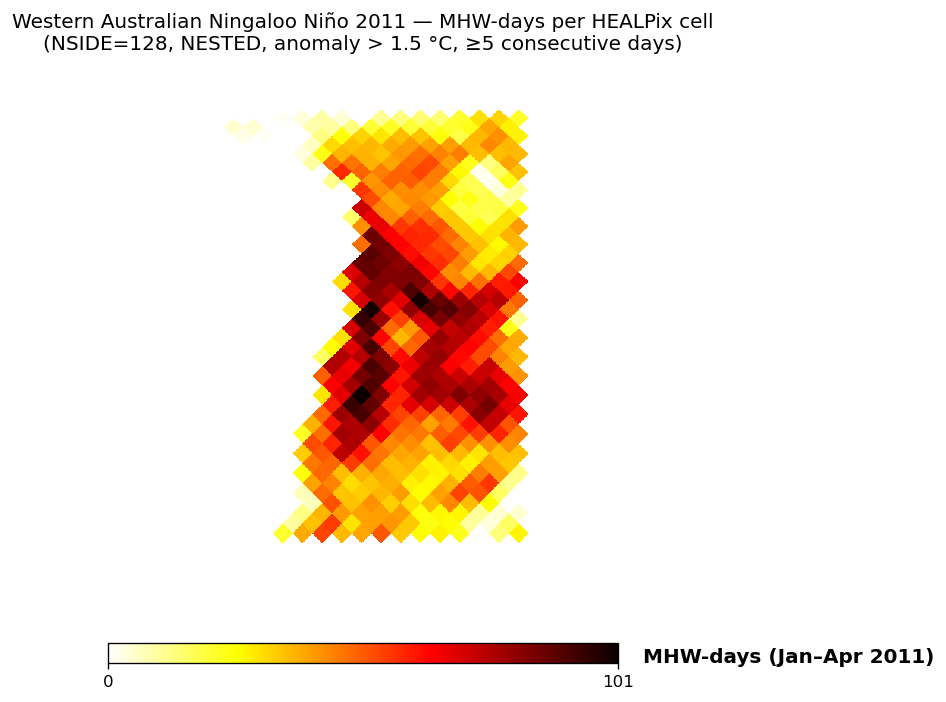
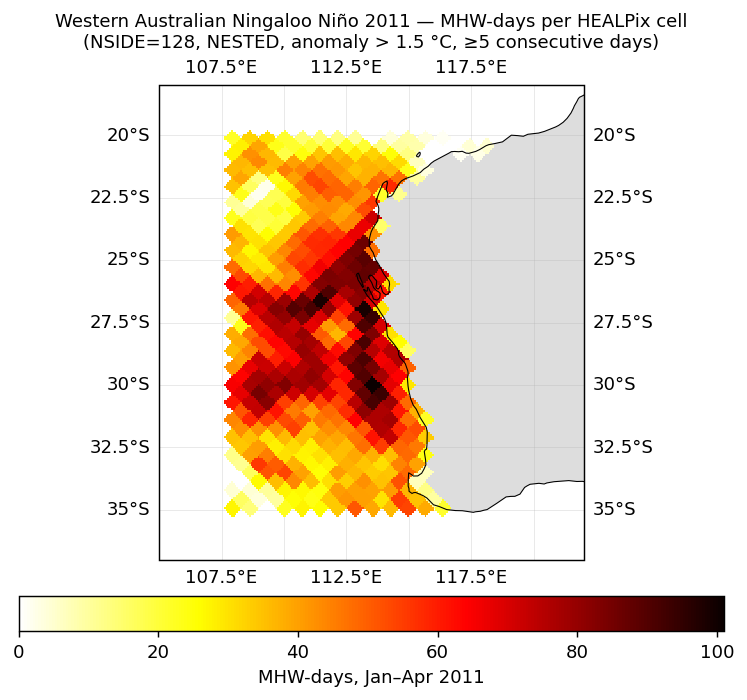
fix: notebook 04 sklearn dep + notebook 05 first figure coastlines
The CI run for "ci: execute all notebooks" succeeded as a workflow but
notebook 04 silently failed at the sklearn import:
    ModuleNotFoundError: No module named 'sklearn'
The local pangeo dev env has scikit-learn so the failure was invisible
locally. Add scikit-learn to environment.yml so notebooks 04 and 06
(both use sklearn.linear_model.LogisticRegression) execute under CI.

Notebook 05 figure 1 ("MHW-days per HEALPix cell") used hp.cartview,
which renders a plain HEALPix raster with no map context. Replace with
cartopy PlateCarree + pcolormesh so coastlines, the Australian land
mass, and lat/lon gridlines are drawn. Use ang2pix on a high-resolution
lat-lon mesh to keep the per-cell HEALPix block structure visible.

Re-running locally produces the corrected figure; CI build for
notebook 04 will pick up its outputs on the next run.

diff --git a/notebooks/05_real_mhw_and_biodiversity.py b/notebooks/05_real_mhw_and_biodiversity.py
@@ -243,21 +243,38 @@ print(f"HEALPix cells with MHW exposure (≥1 day mean): "
 # ## 5. Visualise the MHW footprint on HEALPix
 
 # %%
-m_for_plot = np.where(np.isnan(mhw_days_hp), 0.0, mhw_days_hp)
-hp.cartview(
-    m_for_plot,
-    nest=True,
-    lonra=[105, 122],
-    latra=[-37, -18],
-    title=f"Western Australian Ningaloo Niño 2011 — MHW-days per HEALPix cell\n(NSIDE={NSIDE}, NESTED, anomaly > {ANOMALY_THRESHOLD_C} °C, ≥{MIN_PERSISTENCE_DAYS} consecutive days)",
-    cmap="hot_r",
-    min=0, max=float(np.nanmax(mhw_days_hp)),
-    unit="MHW-days (Jan–Apr 2011)",
-    cbar=True,
-)
-plt.gcf().set_size_inches(10, 6)
-plt.savefig(IMG_DIR / "mhw_healpix_western_australia_2011.png",
-            dpi=120, bbox_inches="tight")
+import cartopy.crs as ccrs
+import cartopy.feature as cfeature
+
+# Render the HEALPix-aggregated MHW field on a high-resolution lat-lon
+# grid through `hp.ang2pix`, then pcolormesh it on a cartopy axis so
+# coastlines and gridlines come through.
+LATS_HD = np.linspace(-37, -18, 240)
+LONS_HD = np.linspace(105, 122, 240)
+LAT_HD, LON_HD = np.meshgrid(LATS_HD, LONS_HD, indexing="ij")
+theta_hd = np.deg2rad(90.0 - LAT_HD)
+phi_hd = np.deg2rad(LON_HD % 360.0)
+hp_idx_hd = hp.ang2pix(NSIDE, theta_hd, phi_hd, nest=True)
+mhw_field_hd = mhw_days_hp[hp_idx_hd]
+mhw_field_hd = np.where(np.isnan(mhw_field_hd) | (mhw_field_hd == 0), np.nan, mhw_field_hd)
+
+fig = plt.figure(figsize=(10, 6))
+ax = fig.add_subplot(1, 1, 1, projection=ccrs.PlateCarree())
+ax.set_extent([105, 122, -37, -18], crs=ccrs.PlateCarree())
+ax.add_feature(cfeature.LAND, facecolor="#dddddd", zorder=1)
+ax.add_feature(cfeature.COASTLINE, linewidth=0.6, zorder=3)
+ax.gridlines(draw_labels=True, linewidth=0.3, alpha=0.5)
+cmesh = ax.pcolormesh(LON_HD, LAT_HD, mhw_field_hd,
+                       cmap="hot_r", shading="auto", vmin=0,
+                       vmax=float(np.nanmax(mhw_days_hp)),
+                       transform=ccrs.PlateCarree(), zorder=2)
+plt.colorbar(cmesh, ax=ax, orientation="horizontal", shrink=0.7, pad=0.06,
+             label="MHW-days, Jan–Apr 2011")
+ax.set_title(f"Western Australian Ningaloo Niño 2011 — MHW-days per HEALPix cell\n"
+             f"(NSIDE={NSIDE}, NESTED, anomaly > {ANOMALY_THRESHOLD_C} °C, ≥{MIN_PERSISTENCE_DAYS} consecutive days)",
+             fontsize=10)
+fig.savefig(IMG_DIR / "mhw_healpix_western_australia_2011.png",
+            dpi=130, bbox_inches="tight")
 plt.show()
 
 # %% [markdown]